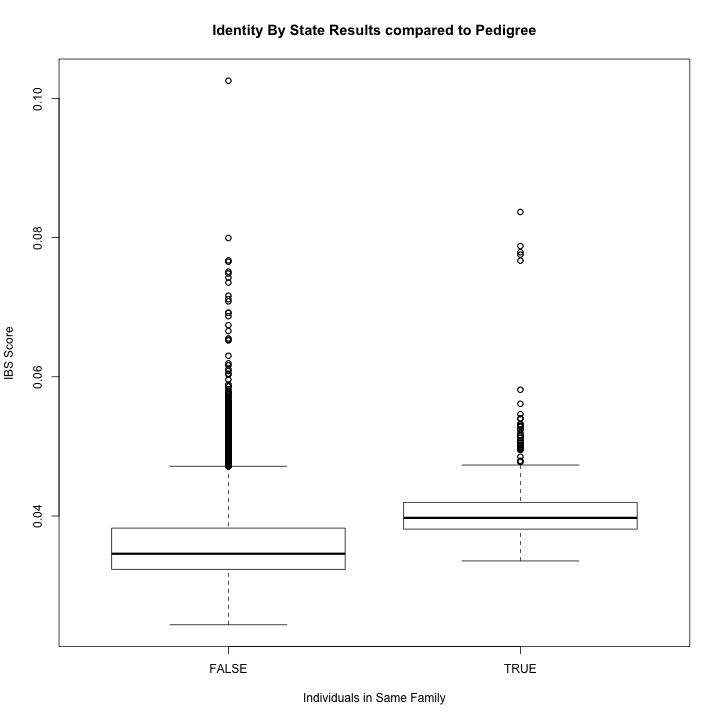
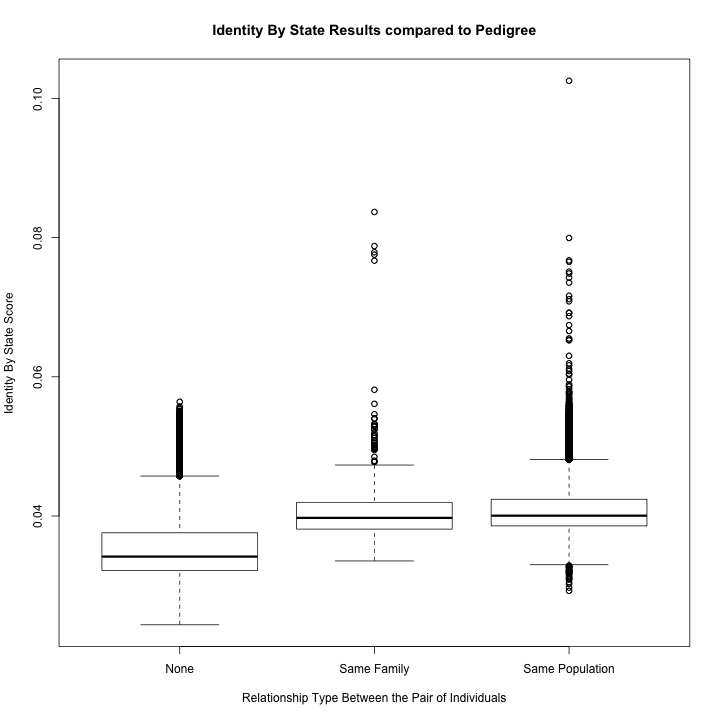
Added population to IBS comparison.
Also updated data story to use the dplyr package throughout.

diff --git a/results/ibs/1000Genomes-chr22/analyze-ibs-data.md b/results/ibs/1000Genomes-chr22/analyze-ibs-data.md
@@ -67,32 +67,34 @@ PLINK/SEQ](https://raw.githubusercontent.com/deflaux/codelabs/qc-codelab/R/1000G
 
 ## Loading IBS Data in R
 
-`ibsFilename1` contains an N^2 x 3 IBS matrix, where N is the size of the
+`ibsDataFlowFilename` contains an N^2 x 3 IBS matrix, where N is the size of the
 population and each row represents the IBS score for a pair of individuals.
 
 
 ```r
-ibsFilename1="1000genomes_chr22_ibs.tsv"
+ibsDataFlowFilename="1000genomes_chr22_ibs.tsv"
 ```
 
-`ibsFilename2` contains an NxN IBS matrix, where N is the size of the population
+`ibsPlinkSeqFilename` contains an NxN IBS matrix, where N is the size of the population
 and each cell of the matrix contains the IBS score of a pair of individuals.
 
 
 ```r
-ibsFilename2="1000genomes_phase1_chr22_plinkseq_ibs.tsv"
+ibsPlinkSeqFilename="1000genomes_phase1_chr22_plinkseq_ibs.tsv"
 ```
 
 
 ```r
-library(reshape2)
+require(reshape2)
+require(dplyr)
+
 ReadIBSFile <- function(ibsFilename, header=FALSE, rowNames=NULL) {
   ibsData <- read.table(file=ibsFilename, header=header,
                         row.names=rowNames, stringsAsFactors=FALSE)
   return (ibsData)
 }
-ibsData1 <- ReadIBSFile(ibsFilename1)
-ibsData2 <- ReadIBSFile(ibsFilename2, header=TRUE, rowNames=1)
+ibsDataflowData <- ReadIBSFile(ibsDataFlowFilename)
+ibsPlinkSeqData <- ReadIBSFile(ibsPlinkSeqFilename, header=TRUE, rowNames=1)
 ```
 
 Transform the NxN matrix into a N^2 x 3 matrix, where each row represents the
@@ -100,7 +102,7 @@ IBS score for a pair of individuals.
 
 
 ```r
-ibsData2 <- melt(data.matrix(ibsData2))
+ibsPlinkSeqData <- melt(data.matrix(ibsPlinkSeqData))
 ```
 
 Set the column names of the two sets of IBS data consistently.
@@ -110,8 +112,8 @@ Set the column names of the two sets of IBS data consistently.
 ColumnNames <- function(ibsData) {
   colnames(ibsData) <- c("sample1", "sample2", "ibsScore")
 }
-colnames(ibsData1) <- ColumnNames(ibsData1)
-colnames(ibsData2) <- ColumnNames(ibsData2)
+colnames(ibsDataflowData) <- ColumnNames(ibsDataflowData)
+colnames(ibsPlinkSeqData) <- ColumnNames(ibsPlinkSeqData)
 ```
 
 Make the IBS matrix symmetric.
@@ -124,7 +126,7 @@ MakeIBSDataSymmetric <- function(ibsData) {
                                  ibsScore=ibsData$ibsScore)
   ibsData <- rbind(ibsData, ibsPairsMirrored)
 }
-ibsData1 <- MakeIBSDataSymmetric(ibsData1)
+ibsDataflowData <- MakeIBSDataSymmetric(ibsDataflowData)
 ```
 
 ## IBS Heat Map
@@ -135,25 +137,24 @@ Exclude the IBS values for a genome and itself, because those values are always
 
 ```r
 ExcludeDiagonal <- function(ibsData) {
-  ibsData <- subset(ibsData, ibsData$sample1 != ibsData$sample2)
+  ibsData <- filter(ibsData, ibsData$sample1 != ibsData$sample2)
   return (ibsData)
 }
-ibsData2Sample <- ExcludeDiagonal(ibsData2)
+ibsPlinkSeqDataSample <- ExcludeDiagonal(ibsPlinkSeqData)
 ```
 
 Extract the IBS matrix for a random sample of the individuals.
 
 
 ```r
-SampleIBSMatrix <- function(ibsData) {
+SampleIBSMatrix <- function(ibsData, sampleSize=50) {
   individuals <- unique(ibsData$sample1)
-  sampleSize <- 50
   sample <- sample(individuals, sampleSize)
   ibsData <- subset(ibsData, ibsData$sample1 %in% sample)
   ibsData <- subset(ibsData, ibsData$sample2 %in% sample)
   return (ibsData)
 }
-ibsData2Sample <- SampleIBSMatrix(ibsData2Sample)
+ibsPlinkSeqDataSample <- SampleIBSMatrix(ibsPlinkSeqDataSample)
 ```
 
 Draw a heat map based on the sampled IBS scores.
@@ -171,7 +172,7 @@ DrawHeatMap <- function(ibsData) {
                  x="Sample", y="Sample"))
   p
 }
-DrawHeatMap(ibsData2Sample)
+DrawHeatMap(ibsPlinkSeqDataSample)
 ```
 
 <img src="figure/ibs-heat-map-1.png" title="plot of chunk ibs-heat-map" alt="plot of chunk ibs-heat-map" style="display: block; margin: auto;" />
@@ -184,10 +185,9 @@ and report the number of differences.
 
 
 ```r
-mergedIBS <- merge(ibsData1, ibsData2, by = c(colnames(ibsData1)[1:2]))
-diffIBS <- abs(mergedIBS$ibsScore.x - mergedIBS$ibsScore.y) < 1e-6
-mergedDiffIBS <- cbind(mergedIBS, diffIBS)
-colnames(mergedDiffIBS) <- c(colnames(mergedDiffIBS)[1:4], "almostEqualIBS")
+mergedIBS <- inner_join(ibsDataflowData, ibsPlinkSeqData, by = c(colnames(ibsDataflowData)[1:2]))
+mergedDiffIBS <- mutate(mergedIBS, 
+                        almostEqualIBS = abs(mergedIBS$ibsScore.x - mergedIBS$ibsScore.y) < 1e-6)
 nrow(mergedDiffIBS[mergedDiffIBS$almostEqualIBS == FALSE,])
 ```
 
@@ -231,7 +231,10 @@ Multiple R-squared:      1,	Adjusted R-squared:      1
 F-statistic: 1.53e+15 on 1 and 1193554 DF,  p-value: < 2.2e-16
 ```
 
-Compare these results to the pedigree.
+Comparison of IBS Results to Pedigree
+===================================================
+
+First we fetch the pedigree information from the 1,000 Genomes project.
 
 ```r
 pedigree <- read.delim("ftp://ftp.1000genomes.ebi.ac.uk/vol1/ftp/technical/working/20130606_sample_info/20130606_g1k.ped", as.is=TRUE)
@@ -269,16 +272,28 @@ summary(pedigree)
                                       
 ```
 
-```r
-require(dplyr)
-ibs <- filter(ibsData1, sample1 != sample2)
-ibs_fam <- inner_join(ibs, select(pedigree, Individual.ID, Family.ID), by=c("sample1" = "Individual.ID"))
-ibs_fams <- inner_join(ibs_fam, select(pedigree, Individual.ID, Family.ID), by=c("sample2" = "Individual.ID"))
-```
+We add the population and family identifiers to each individual in our pair.
 
 ```r
-boxplot(ibsScore~Family.ID.x == Family.ID.y, data=ibs_fams, main="Identity By State Results compared to Pedigree", 
-    xlab="Individuals in Same Family", ylab="IBS Score")
+ibs_sample1_ped <- inner_join(ExcludeDiagonal(ibsDataflowData),
+                              select(pedigree, Individual.ID, Family.ID, Population),
+                              by=c("sample1" = "Individual.ID"))
+ibs_both_ped <- inner_join(ibs_sample1_ped,
+                           select(pedigree, Individual.ID, Family.ID, Population),
+                           by=c("sample2" = "Individual.ID"))
+ibs_relationship <- mutate(ibs_both_ped,
+                           relationship=ifelse(Family.ID.x == Family.ID.y,
+                                               "Same Family",
+                                               ifelse(Population.x == Population.y,
+                                                      "Same Population",
+                                                      "None")))
+```
+
+And plot the scores for pairs by their relationship type:
+
+```r
+boxplot(ibsScore~relationship, data=ibs_relationship, main="Identity By State Results compared to Pedigree", 
+    xlab="Relationship Type Between the Pair of Individuals", ylab="Identity By State Score")
 ```
 
 <img src="figure/ibs-boxplot-1.png" title="plot of chunk ibs-boxplot" alt="plot of chunk ibs-boxplot" style="display: block; margin: auto;" />
